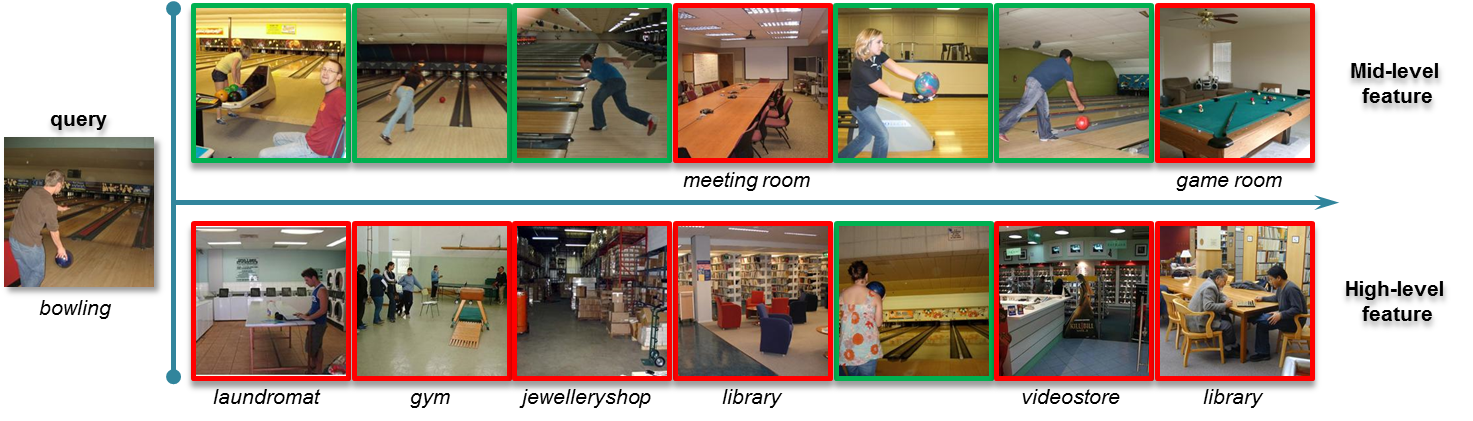
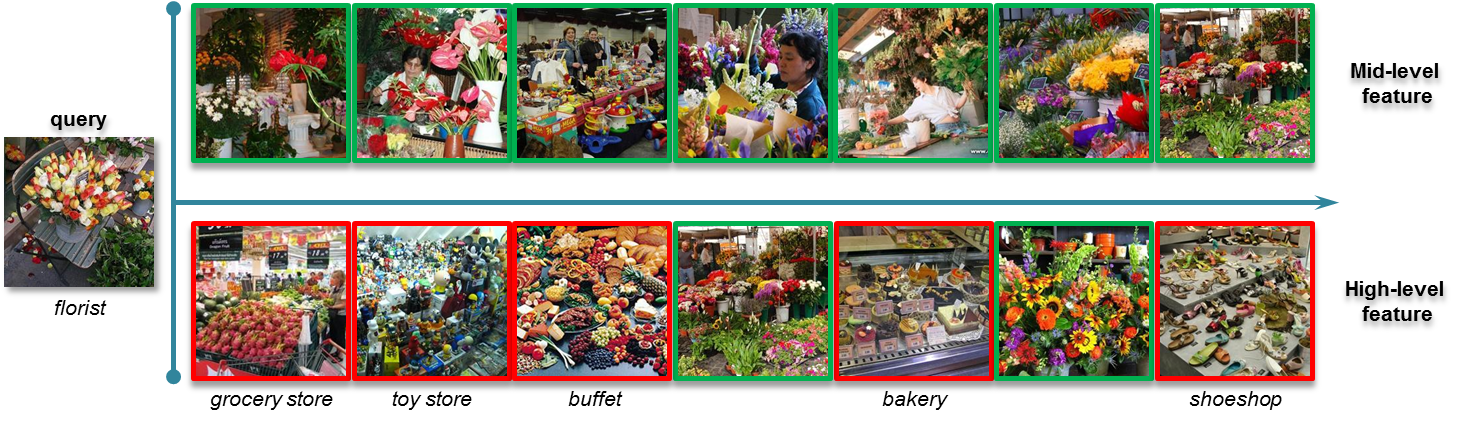
update fig

diff --git a/BoMSA_review.tex b/BoMSA_review.tex
@@ -116,7 +116,7 @@ In this section, we motivate our multi-scale architecture with a series of empir
 %\subsection{Category-specific scale selection} 
 %We first verify our hypothesis that different recognition tasks require different amounts of invariance through two experiments.
 
-{\bf Image retrieval:} Recent work that explores sparse reconstruction techniques for visualizing and analyzing features~\cite{vondrick2013hoggles}. Inspired by such techniques, we use image retrieval to begin our exploration. We attempt to ``reconstruct'' a query image by finding $N=5$ closest images in terms of L2-distance, when computed with mean-pooled layer-specific activations. Results are shown for two query images and two Caffe layers in Fig.~\ref{fig:moti}. The {\tt bowling} query image tends to produces better matches when using mid-level features that appear to capture \textit{objects} and \textit{parts}. On the other hand, the {\tt indoor-church} query image tends to produce better matches when using high-level features that appear to capture more global \textit{scene} statistics.
+{\bf Image retrieval:} Recent work that explores sparse reconstruction techniques for visualizing and analyzing features~\cite{vondrick2013hoggles}. Inspired by such techniques, we use image retrieval to begin our exploration. We attempt to ``reconstruct'' a query image by finding $N=5$ closest images in terms of L2-distance, when computed with mean-pooled layer-specific activations. Results are shown for two query images and two Caffe layers in Fig.~\ref{fig:moti}. The {\tt florist} query image tends to produces better matches when using mid-level features that appear to capture \textit{objects} and \textit{parts}. On the other hand, the {\tt church-indoor} query image tends to produce better matches when using high-level features that appear to capture more global \textit{scene} statistics.
 
 
 %By working with poo providing some degree of robustness to spatial transformation of objects (bowling ball and people body parts). On the other hand, the example in Fig.~\ref{fig:moti_high} shows high-level feature captures the spatial geometry information. This is important for classes such as scenes with strong \textit{structure} cues, \eg, church, cloister, corridor, etc. Thus, we wish to develop a method that captures the multi-scale invariance.
@@ -157,7 +157,7 @@ We plot the performance of single-layer classifiers in~\ref{fig:layer_MIT67}. Th
 \end{figure}
 
 
-{\bf Multi-scale classification:} We now explore the use of multi-scale features. One immediate hurdle to including all features from all layers is the massive increase in dimensionality. As such, we compute only marginal activations at each RelU layer with average pooling. We found average pooling to outperform sum pooling as the resulting marginal features remained in a reasonable dynamic range. We also experimented with max-pooling, but found similar performance. Specifically, assume a particular layer is of size $H \times W \times F$, where $H$ is the height, $W$ is the width, and $F$ is the number of filter channels. We compute a $1 \times 1 \times F$ feature by averaging across spatial dimensions. Note that the ``marginal activations'' of fully-connected layers (which are already of dimension $H \times 1 \times F$) are simply the original activations. We plot performance as we iteratively add more layers. Fig.~\ref{fig:layer_MIT67} suggests that one could start with the last RelU layer. Fig~\ref{fig:add_back} plots performance as we add previous layers to the classifier feature set. Performance increases as we add intermediate layers, while lower layers prove less helpful (and may even hurt performance, likely do to overfitting). Our observations suggest that high and mid-level features (\ie, \textit{parts} and \textit{objects}) are more useful than low-features based on \textit{edges} or \textit{textures} in scene classification. 
+{\bf Multi-scale classification:} We now explore the use of multi-scale features. One immediate hurdle to including all features from all layers is the massive increase in dimensionality. As such, we compute only marginal activations at each RelU layer with average pooling. We found average pooling to outperform sum pooling as the resulting marginal features remained in a reasonable dynamic range. We also experimented with max-pooling, but found similar performance. Specifically, assume a particular layer is of size $H \times W \times F$, where $H$ is the height, $W$ is the width, and $F$ is the number of filter channels. We compute a $1 \times 1 \times F$ feature by averaging across spatial dimensions. Note that the ``marginal activations'' of fully-connected layers (which are already of dimension $H \times 1 \times F$) are simply the original activations. We plot performance as we iteratively add more layers. Fig.~\ref{fig:layer_MIT67} suggests that one could start with the last RelU layer. Fig~\ref{fig:add_back} plots performance as we add previous layers to the classifier feature set. Performance increases as we add intermediate layers, while lower layers prove less helpful (and may even hurt performance, likely duo to over-fitting). Our observations suggest that high and mid-level features (\ie, \textit{parts} and \textit{objects}) are more useful than low-features based on \textit{edges} or \textit{textures} in scene classification. 
 
 
 % the performance increase in the beginning by adding mid-level features to enrich the model discriminativeness. However, including some low level responses to the feature actually hurts the performance, \ie, layer 7 and 3 in Fig.~\ref{fig:add_back_caffe}. 
@@ -175,7 +175,7 @@ The ``+'' sign the recent-most added layer. Adding additional layers help, but p
 \label{fig:add_back}
 \end{figure}
 
-{\bf Multi-scale selection:} The previous results show that adding all layers may actually hurt performance. We verified that this was an overfitting phenomena; additional layers always improved training performance, but could decrease test performance due to overfitting. This appears especially true for multi-scale analysis, where nearby layers may encoded redundant or correlated information (that is susceptible to overfitting). Ideally, we would like to search for the ``optimal'' combination of RelU layers that maximize performance. Since there exists an exponential number of combinations ($2^N$ for $N$ RelU layers), we find an approximate solution with a greedy forward-selection strategy. We start with the last layer and greedily select the next-best layer (among all remaining layers) to add, until we observe no further performance improvement. As seen in Fig.~\ref{fig:forward_select_caffe}, the optimal results of this greedy approach rejects the low-level features. This is congruent with the previous results in Fig.~\ref{fig:add_back_caffe}. Similarly for the Deep19 model in Fig.~\ref{fig:forward_select_deep19}, although the feature pool is large (18 ReLU layers), the optimal greedy results includes only the mid- or high-level features. 
+{\bf Multi-scale selection:} The previous results show that adding all layers may actually hurt performance. We verified that this was an overfitting phenomena; additional layers always improved training performance, but could decrease test performance due to overfitting. This appears especially true for multi-scale analysis, where nearby layers may encoded redundant or correlated information (that is susceptible to overfitting). Ideally, we would like to search for the ``optimal'' combination of RelU layers that maximize performance. Since there exists an exponential number of combinations ($2^N$ for $N$ RelU layers), we find an approximate solution with a greedy forward-selection strategy. We start with the last layer and greedily select the next-best layer (among all remaining layers) to add, until we observe no further performance improvement. \songfan{This initialization not done manually; the forward selection automatically find the best performing single layer, which turns out to the last layer} As seen in Fig.~\ref{fig:forward_select_caffe}, the optimal results of this greedy approach rejects the low-level features. This is congruent with the previous results in Fig.~\ref{fig:add_back_caffe}. Similarly for the Deep19 model in Fig.~\ref{fig:forward_select_deep19}, although the feature pool is large (18 ReLU layers), the optimal greedy results includes only the mid- or high-level features. 
 
 \begin{figure}[htbp]
 \centering
